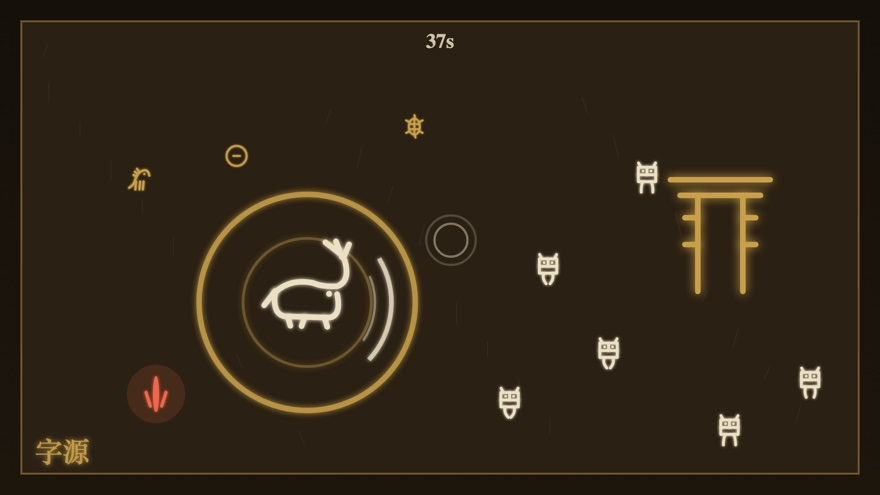
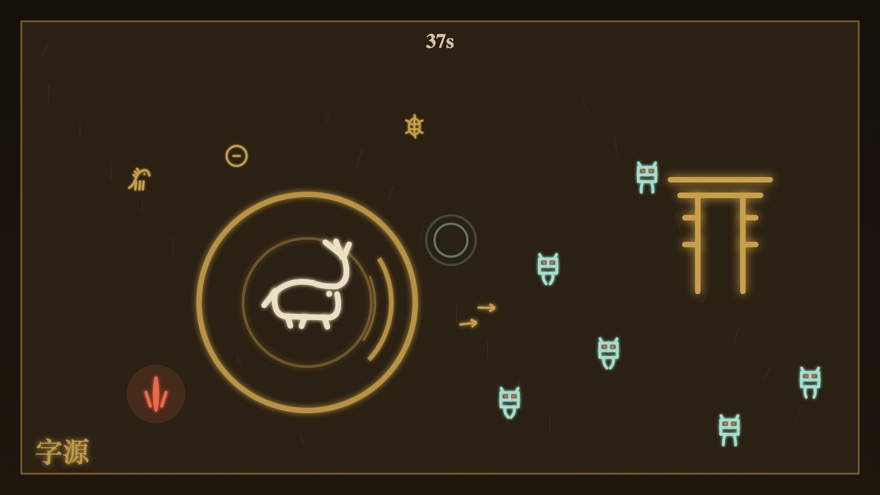
Glyph Run b4: readable combat colors, starter bow, script-era weapon tiers
- Visual language: spirits now spectral teal with red eyes; every attack
  of yours (slashes, quakes, arrows) renders in era gold; damage = red
  flash. Player and foes no longer share the same ink.
- Everyone starts with a modern 楷書 弓 that auto-fires arrows from
  second one — attacking is visible immediately
- Weapons upgrade through script eras (楷書 → 金文 → 甲骨), each tier
  faster/wider: bow gains twin then triple arrows and becomes oracle 射;
  戈 sweeps wider; 網 roots longer. Pedestals show the form you'd get,
  HUD icons age with tier + level pips. Two pedestals per wave.
- Thumb regenerated with the new colors

diff --git a/game/glyphrun.html b/game/glyphrun.html
@@ -100,7 +100,7 @@
   <div>
     <div class="title"><span class="cn">字源</span>GLYPH RUN</div>
     <div class="sub" data-en="Survive the night and you'll travel back in time. You ARE a character — spirits swarm from the dark and your ink strikes back on its own. Fallen glyphs are experience: level up to EVOLVE into related characters, all the way to your oracle-bone form. Every survived wave opens a gate deeper into the past — 楷書 to 甲骨文 — and the night gets harder." data-zh="撑过长夜，就是逆流时光。你就是一个「字」——群鬼自暗处涌来，笔墨自会出手。掉落的古字就是经验：升级即进化成同族新字，直到甲骨文本形。每撑过一波便开一道门，通往更深的古代——从楷书到甲骨文——夜也越难熬。">Survive the night and you'll travel back in time. You ARE a character — spirits swarm from the dark and your ink strikes back on its own. Fallen glyphs are experience: level up to EVOLVE into related characters, all the way to your oracle-bone form. Every survived wave opens a gate deeper into the past — 楷書 to 甲骨文 — and the night gets harder.</div>
-    <a class="back" href="/wip.html" data-en="← back to the wip lab" data-zh="← 返回实验室">← back to the wip lab</a> <span style="color:#3a3a3a;font-size:0.62rem">b3</span>
+    <a class="back" href="/wip.html" data-en="← back to the wip lab" data-zh="← 返回实验室">← back to the wip lab</a> <span style="color:#3a3a3a;font-size:0.62rem">b4</span>
   </div>
   <button class="lang-btn" id="langBtn" onclick="toggleLang()">中文</button>
 </div>
@@ -121,7 +121,7 @@
     <!-- START -->
     <div class="overlay show" id="ovStart">
       <h2 data-en="字源 · GLYPH RUN" data-zh="字源 · 汉字奔跑">字源 · GLYPH RUN</h2>
-      <div class="big" data-en="Pick a glyph — you play as the character itself. 鬼 spirits swarm from every side; your ink auto-slashes the nearest while you steer. Fallen spirits drop glyphs — that's your experience: fill the bar to LEVEL UP and evolve into a related character with a stronger skill. Every 12 glyphs also mends a heart. Survive each wave and pass the gate — the script rewinds an era: 楷書 → 篆書 → 金文 → 甲骨文. Ancient weapons surface from the dust: walk over 弓 the bow, 戈 the dagger-axe, 網 the net — a second 弓 becomes 射." data-zh="选一个字——你扮演的就是字形本身。「鬼」自四面八方涌来，笔墨会自动斩向最近之敌，你只管走位。倒下的鬼掉落古字——那就是经验：攒满经验条即升级，进化成同族新字、技能更强。每集 12 字还能补一颗心。撑过每一波、穿过门——字体倒退一个时代：楷书 → 篆书 → 金文 → 甲骨文。尘土之下还会浮出古兵：走上前拾取「弓」「戈」「网」——再得一弓，便成「射」。">Pick a glyph — you play as the character itself. 鬼 spirits swarm from every side; your ink auto-slashes the nearest while you steer. Fallen spirits drop glyphs — that's your experience: fill the bar to LEVEL UP and evolve into a related character with a stronger skill. Every 12 glyphs also mends a heart. Survive each wave and pass the gate — the script rewinds an era: 楷書 → 篆書 → 金文 → 甲骨文. Ancient weapons surface from the dust: walk over 弓 the bow, 戈 the dagger-axe, 網 the net — a second 弓 becomes 射.</div>
+      <div class="big" data-en="Pick a glyph — you play as the character itself. 鬼 spirits swarm from every side; your ink auto-slashes the nearest while you steer. Fallen spirits drop glyphs — that's your experience: fill the bar to LEVEL UP and evolve into a related character with a stronger skill. Every 12 glyphs also mends a heart. Survive each wave and pass the gate — the script rewinds an era: 楷書 → 篆書 → 金文 → 甲骨文. You carry a modern 弓 from the start — its arrows fire on their own. Weapon drops recast your arsenal in ever-older script — bronze, then bone — until the bow becomes 射 itself; 戈 guards your back, 網 holds the pack." data-zh="选一个字——你扮演的就是字形本身。「鬼」自四面八方涌来，笔墨会自动斩向最近之敌，你只管走位。倒下的鬼掉落古字——那就是经验：攒满经验条即升级，进化成同族新字、技能更强。每集 12 字还能补一颗心。撑过每一波、穿过门——字体倒退一个时代：楷书 → 篆书 → 金文 → 甲骨文。你开局自带一张现代的「弓」——箭矢自动离弦。拾取兵器会以更古的字体重铸——金文、再到甲骨——弓最终化为「射」；「戈」护你身后，「网」缚住群鬼。">Pick a glyph — you play as the character itself. 鬼 spirits swarm from every side; your ink auto-slashes the nearest while you steer. Fallen spirits drop glyphs — that's your experience: fill the bar to LEVEL UP and evolve into a related character with a stronger skill. Every 12 glyphs also mends a heart. Survive each wave and pass the gate — the script rewinds an era: 楷書 → 篆書 → 金文 → 甲骨文. You carry a modern 弓 from the start — its arrows fire on their own. Weapon drops recast your arsenal in ever-older script — bronze, then bone — until the bow becomes 射 itself; 戈 guards your back, 網 holds the pack.</div>
       <div class="char-row" id="charRow"></div>
       <div class="keys" id="skillLine"></div>
       <div class="keys">
@@ -559,6 +559,49 @@ function drawPicto(ctx, ch, cx, cy, s, color){
   ctx.restore();
 }
 
+/* weapon glyphs age with their tier: modern 楷 strokes, then the pictographs */
+function drawWeaponIcon(ctx, key, lv, cx, cy, s, color){
+  if(key==='gong'){
+    if(lv>=3){ drawPicto(ctx, '射', cx, cy, s, color); return; }
+    if(lv===2){ drawPicto(ctx, '弓', cx, cy, s, color); return; }
+    ctx.save(); ctx.translate(cx, cy);                    // 楷 弓: three-bar zigzag, final hook
+    ctx.strokeStyle = color; ctx.shadowColor = color; ctx.shadowBlur = s*0.14;
+    stroke(ctx, Math.max(2, s*0.09));
+    const r = s*0.42;
+    ctx.beginPath();
+    ctx.moveTo(-r*0.55,-r); ctx.lineTo(r*0.5,-r); ctx.lineTo(r*0.5,-r*0.35); ctx.lineTo(-r*0.55,-r*0.35);
+    ctx.lineTo(-r*0.55,r*0.2); ctx.lineTo(r*0.5,r*0.2); ctx.lineTo(r*0.5,r*0.8);
+    ctx.quadraticCurveTo(r*0.5,r*1.05,r*0.1,r*0.95);
+    ctx.stroke();
+    ctx.restore(); return;
+  }
+  if(key==='ge'){
+    if(lv>=2){ drawPicto(ctx, '戈', cx, cy, s, color); return; }
+    ctx.save(); ctx.translate(cx, cy);                    // 楷 戈: 横 斜钩 撇 点
+    ctx.strokeStyle = color; ctx.fillStyle = color; ctx.shadowColor = color; ctx.shadowBlur = s*0.14;
+    stroke(ctx, Math.max(2, s*0.09));
+    const r = s*0.42;
+    ctx.beginPath(); ctx.moveTo(-r*0.7,-r*0.4); ctx.lineTo(r*0.35,-r*0.55); ctx.stroke();
+    ctx.beginPath(); ctx.moveTo(-r*0.05,-r); ctx.quadraticCurveTo(r*0.15,r*0.3,r*0.6,r*0.85); ctx.stroke();
+    ctx.beginPath(); ctx.moveTo(r*0.6,r*0.85); ctx.lineTo(r*0.7,r*0.55); ctx.stroke();
+    ctx.beginPath(); ctx.moveTo(0,-r*0.1); ctx.lineTo(-r*0.55,r*0.75); ctx.stroke();
+    ctx.beginPath(); ctx.arc(r*0.5,-r*0.9,r*0.09,0,Math.PI*2); ctx.fill();
+    ctx.restore(); return;
+  }
+  if(lv>=2){ drawPicto(ctx, '網', cx, cy, s, color); return; }
+  ctx.save(); ctx.translate(cx, cy);                      // 楷 网: 冂 with crossed lattice
+  ctx.strokeStyle = color; ctx.shadowColor = color; ctx.shadowBlur = s*0.14;
+  stroke(ctx, Math.max(2, s*0.09));
+  const r = s*0.42;
+  ctx.beginPath(); ctx.moveTo(-r*0.6,-r*0.85); ctx.lineTo(-r*0.6,r*0.9); ctx.stroke();
+  ctx.beginPath(); ctx.moveTo(-r*0.6,-r*0.85); ctx.lineTo(r*0.6,-r*0.85); ctx.lineTo(r*0.6,r*0.9); ctx.stroke();
+  for(const ox of [-0.28, 0.3]){
+    ctx.beginPath(); ctx.moveTo((ox-0.18)*r,-r*0.5); ctx.lineTo((ox+0.18)*r,r*0.1); ctx.stroke();
+    ctx.beginPath(); ctx.moveTo((ox+0.18)*r,-r*0.5); ctx.lineTo((ox-0.18)*r,r*0.1); ctx.stroke();
+  }
+  ctx.restore();
+}
+
 /* --- 鬼 spirit enemy --- */
 function drawSpirit(ctx, cx, cy, s, phase, color){
   ctx.save();
@@ -574,9 +617,11 @@ function drawSpirit(ctx, cx, cy, s, phase, color){
   // little horns
   ctx.beginPath(); ctx.moveTo(-r*0.5,-r); ctx.lineTo(-r*0.68,-r*1.35); ctx.stroke();
   ctx.beginPath(); ctx.moveTo(r*0.5,-r); ctx.lineTo(r*0.68,-r*1.35); ctx.stroke();
-  // eyes
+  // eyes — hostile red, so friend and foe never read the same
+  ctx.save(); ctx.fillStyle = '#f0674a'; ctx.shadowColor = '#f0674a';
   ctx.beginPath(); ctx.arc(-r*0.32,-r*0.7,r*0.11,0,Math.PI*2); ctx.fill();
   ctx.beginPath(); ctx.arc(r*0.32,-r*0.7,r*0.11,0,Math.PI*2); ctx.fill();
+  ctx.restore();
   // wispy legs, shuffling
   const w = Math.sin(phase)*r*0.2;
   ctx.beginPath(); ctx.moveTo(-r*0.35,r*0.15); ctx.quadraticCurveTo(-r*0.5, r*0.6, -r*0.3+w, r); ctx.stroke();
@@ -711,17 +756,23 @@ const CHARS = {
 const ATK_INT = [1, 0.88, 0.76, 0.62];   // auto-attack quickens per tier
 const ATK_RNG = [1, 1.08, 1.18, 1.30];   // and reaches further
 
-/* pickup weapons — real war pictographs that surface mid-wave; walking a
-   duplicate upgrades it, and a second 弓 becomes 射 — the oracle form of
+/* pickup weapons — real war pictographs. You carry a modern 楷書 bow from
+   the start; duplicates recast a weapon in ever-older script (bronze, then
+   bone), faster and fiercer each time. The oracle tier of the bow IS 射 —
    “to shoot” really is the arrow set on the bowstring.                  */
 const WEAPONS = {
-  gong: {ch:'弓', py:'gōng', mean_en:'a bow — arrows seek the pack', mean_zh:'「弓」——放矢逐鬼',
-         ch2:'射', py2:'shè', mean2_en:'“to shoot” — the arrow on the bow: twin arrows, faster', mean2_zh:'「射」——弓上之矢：双箭齐发，更快',
-         int:[1.6, 1.0]},
-  ge:   {ch:'戈', py:'gē', mean_en:'dagger-axe — it guards your back', mean_zh:'「戈」——护住身后',
-         int:[1.3, 0.85]},
-  wang: {ch:'網', py:'wǎng', mean_en:'a net — holds the pack fast', mean_zh:'「网」——缚住群鬼',
-         int:[3.2, 2.2]}
+  gong: {chs:['弓','弓','射'], pys:['gōng','gōng','shè'], eras:['楷書','金文','甲骨'],
+         tier_en:['a bow — arrows seek the pack', 'recast in bronze — twin arrows, quicker', '“to shoot” — the arrow on the string: three arrows, oracle-swift'],
+         tier_zh:['「弓」——放矢逐鬼', '金文重铸——双箭更疾', '「射」——弦上之矢，三箭齐发'],
+         int:[1.5, 1.05, 0.7]},
+  ge:   {chs:['戈','戈','戈'], pys:['gē','gē','gē'], eras:['楷書','金文','甲骨'],
+         tier_en:['dagger-axe — it guards your back', 'bronze edge — wider, quicker', 'oracle blade — a full reaping sweep'],
+         tier_zh:['「戈」——护住身后', '青铜之刃——更阔更快', '甲骨之锋——横扫如割'],
+         int:[1.3, 0.95, 0.62], hits:[3,4,5], reach:[96,110,124]},
+  wang: {chs:['網','網','網'], pys:['wǎng','wǎng','wǎng'], eras:['楷書','金文','甲骨'],
+         tier_en:['a net — holds the pack fast', 'bronze-weighted — wider, longer', 'the oracle net — the whole hunt stands still'],
+         tier_zh:['「网」——缚住群鬼', '坠以青铜——更广更久', '甲骨之网——群鬼皆缚'],
+         int:[3.2, 2.5, 1.9], reach:[60,74,88], root:[1.6, 2.0, 2.6]}
 };
 
 /* ============================== eras / waves ============================== */
@@ -736,6 +787,8 @@ const ERAS = {
            sky:['#15100a','#1d160d'], hill:'#2a2013'}
 };
 const ERA_ORDER = ['kai','seal','bronze','oracle'];
+/* spirits get their own spectral tint — foes must never share your ink */
+const GHOST = '#9fe0cf';
 
 /* per-era wave tuning: survive the timer and the gate opens */
 const WAVES = [
@@ -772,7 +825,7 @@ const Game = (function(){
     era = ERAS[ERA_ORDER[i]];
     wave = WAVES[i];
     spirits = []; pickups = []; fires = []; clouds = []; fx = []; pedestals = []; projectiles = [];
-    wTimes = stageIdx >= 2 ? [wave.len*0.55, wave.len*0.22] : [wave.len*0.55];
+    wTimes = [wave.len*0.6, wave.len*0.28];
     waveT = wave.len; spawnT = 1.2; fireT = 3.5; gate = null; slowAllT = 0;
     const c = C();
     player = { x:CW/2, y:CH*0.62, face:1, runPhase:0, sq:0, inv:1.0,
@@ -795,7 +848,8 @@ const Game = (function(){
 
   /* ---------- lifecycle ---------- */
   function start(){
-    stageIdx = 0; lives = MAXHP; coins = 0; nextHeart = 12; level = 0; weapons = [];
+    stageIdx = 0; lives = MAXHP; coins = 0; nextHeart = 12; level = 0;
+    weapons = [{key:'gong', lv:1, t:0.8}];   // everyone starts with the modern bow
     hideAll();
     loadStage(0);
     running = true; lastTs = performance.now();
@@ -1068,8 +1122,10 @@ const Game = (function(){
         const tgt = nearestSpirit(9999);
         if(!tgt){ w.t = 0.1; continue; }
         const ang = Math.atan2(tgt.y-player.y, tgt.x-player.x);
-        const shots = w.lv > 1 ? [ang-0.09, ang+0.09] : [ang];
-        for(const a of shots) projectiles.push({x:player.x, y:player.y, ux:Math.cos(a), uy:Math.sin(a), t:1.1, pierce:2});
+        const spread = [[0], [-0.09, 0.09], [-0.16, 0, 0.16]][lv];
+        for(const da of spread) projectiles.push({x:player.x, y:player.y, ux:Math.cos(ang+da), uy:Math.sin(ang+da),
+                                                  t:1.2, pierce:2+lv, spd:430+lv*60, lv});
+        addFx({kind:'ringatk', x:player.x, y:player.y, r:12+lv*5, t:0.14});
         w.t = W.int[lv];
       } else if(w.key === 'ge'){
         const back = Math.atan2(-player.lastDir.y, -player.lastDir.x);
@@ -1077,22 +1133,22 @@ const Game = (function(){
         for(const s of spirits){
           if(s.dead) continue;
           const d = Math.hypot(s.x-player.x, s.y-player.y);
-          if(d > 96) continue;
+          if(d > W.reach[lv]) continue;
           let da = Math.atan2(s.y-player.y, s.x-player.x) - back;
           da = Math.atan2(Math.sin(da), Math.cos(da));
-          if(Math.abs(da) < 1.15) cand.push([d, s]);
+          if(Math.abs(da) < 1.15 + lv*0.2) cand.push([d, s]);
         }
         if(!cand.length){ w.t = 0.12; continue; }
         cand.sort((a,b)=>a[0]-b[0]);
-        for(const [,s] of cand.slice(0, 3)) killSpirit(s);
-        addFx({kind:'slash', x:player.x, y:player.y, ang:back, r:88, t:0.18});
+        for(const [,s] of cand.slice(0, W.hits[lv])) killSpirit(s);
+        addFx({kind:'slash', x:player.x, y:player.y, ang:back, r:W.reach[lv]-8, t:0.18});
         w.t = W.int[lv];
       } else { // 網: cast at the nearest knot of spirits
         const tgt = nearestSpirit(320);
         if(!tgt){ w.t = 0.15; continue; }
-        const nr = w.lv > 1 ? 78 : 60;
+        const nr = W.reach[lv];
         for(const s of spirits){
-          if(!s.dead && Math.hypot(s.x-tgt.x, s.y-tgt.y) <= nr) s.rootT = 1.6;
+          if(!s.dead && Math.hypot(s.x-tgt.x, s.y-tgt.y) <= nr) s.rootT = W.root[lv];
         }
         addFx({kind:'net', x:tgt.x, y:tgt.y, r:nr, t:1.4});
         w.t = W.int[lv];
@@ -1101,7 +1157,7 @@ const Game = (function(){
     // arrows in flight
     for(const p of projectiles){
       p.t -= dt;
-      p.x += p.ux*430*dt; p.y += p.uy*430*dt;
+      p.x += p.ux*p.spd*dt; p.y += p.uy*p.spd*dt;
       if(p.x < WALL || p.x > CW-WALL || p.y < WALL || p.y > CH-WALL) p.t = 0;
       for(const s of spirits){
         if(s.dead || p.pierce <= 0) continue;
@@ -1150,7 +1206,7 @@ const Game = (function(){
         // a weapon surfaces from the dust
         if(wTimes.length && waveT <= wTimes[0]){
           wTimes.shift();
-          const pool = Object.keys(WEAPONS).filter(k=>!weapons.some(w=>w.key===k && w.lv>1));
+          const pool = Object.keys(WEAPONS).filter(k=>!weapons.some(w=>w.key===k && w.lv>2));
           const key = pool.length ? pool[(Math.random()*pool.length)|0] : 'gong';
           for(let tries=0; tries<8; tries++){
             const wx = WALL+70+Math.random()*(CW-WALL*2-140), wy = WALL+70+Math.random()*(CH-WALL*2-140);
@@ -1230,16 +1286,16 @@ const Game = (function(){
       if(Math.hypot(pd.x-player.x, pd.y-player.y) < 32){
         pd.done = true;
         const W = WEAPONS[pd.key], owned = weapons.find(w=>w.key===pd.key);
-        if(owned && owned.lv === 1){
-          owned.lv = 2;
-          if(pd.key==='gong') popToastEx(W.ch2, W.py2, t(W.mean2_en, W.mean2_zh));
-          else popToastEx(W.ch, W.py+' Ⅱ', t(W.mean_en, W.mean_zh));
+        if(owned && owned.lv < 3){
+          owned.lv++;
+          const l = owned.lv-1;
+          popToastEx(W.chs[l], `${W.pys[l]} · ${W.eras[l]}`, t(W.tier_en[l], W.tier_zh[l]));
         } else if(!owned){
           if(weapons.length >= 2) weapons.shift();          // the oldest is set down
           weapons.push({key:pd.key, lv:1, t:0.4});
-          popToastEx(W.ch, W.py, t(W.mean_en, W.mean_zh));
+          popToastEx(W.chs[0], `${W.pys[0]} · ${W.eras[0]}`, t(W.tier_en[0], W.tier_zh[0]));
         } else {
-          popToastEx(W.ch, W.py, t('already mastered','已然精通'));
+          popToastEx(W.chs[2], W.pys[2], t('already mastered','已然精通'));
         }
         addFx({kind:'levelup', x:pd.x, y:pd.y, t:0.6, r:50, ch:''});
       }
@@ -1302,11 +1358,13 @@ const Game = (function(){
       ctx.restore();
     }
 
-    // weapon pedestals
+    // weapon pedestals — each shows the form you'd walk away with
     for(const pd of pedestals){
+      const owned = weapons.find(w=>w.key===pd.key);
+      const nlv = owned ? Math.min(3, owned.lv+1) : 1;
       ctx.save(); ctx.globalAlpha = 0.35; ctx.strokeStyle = era.accent; ctx.lineWidth = 2;
       ctx.beginPath(); ctx.ellipse(pd.x, pd.y+16, 22, 8, 0, 0, Math.PI*2); ctx.stroke(); ctx.restore();
-      drawPicto(ctx, WEAPONS[pd.key].ch, pd.x, pd.y + Math.sin(pd.bob)*3 - 2, 34, era.ink);
+      drawWeaponIcon(ctx, pd.key, nlv, pd.x, pd.y + Math.sin(pd.bob)*3 - 2, 34, era.ink);
     }
 
     // fallen glyphs
@@ -1326,8 +1384,8 @@ const Game = (function(){
       ctx.restore();
     }
 
-    // spirits
-    for(const s of spirits){ if(!s.dead) drawSpirit(ctx, s.x, s.y, 34, s.phase, era.ink); }
+    // spirits — spectral, red-eyed
+    for(const s of spirits){ if(!s.dead) drawSpirit(ctx, s.x, s.y, 34, s.phase, GHOST); }
 
     // the flock orbiters 羴
     if(selChar==='yang' && level >= CHARS.yang.orbTier){
@@ -1340,11 +1398,20 @@ const Game = (function(){
       }
     }
 
-    // arrows in flight
+    // arrows in flight — gold like every strike of yours
     for(const p of projectiles){
-      ctx.save(); ctx.strokeStyle = era.ink; ctx.shadowColor = era.ink; ctx.shadowBlur = 6;
+      ctx.save();
+      ctx.strokeStyle = era.accent; ctx.shadowColor = era.accent; ctx.shadowBlur = 6 + p.lv*4;
       ctx.lineWidth = 2.5;
-      ctx.beginPath(); ctx.moveTo(p.x-p.ux*12, p.y-p.uy*12); ctx.lineTo(p.x, p.y); ctx.stroke();
+      const L = 15 + p.lv*4;
+      ctx.beginPath(); ctx.moveTo(p.x-p.ux*L, p.y-p.uy*L); ctx.lineTo(p.x, p.y); ctx.stroke();
+      ctx.beginPath(); ctx.moveTo(p.x, p.y); ctx.lineTo(p.x-p.ux*6-p.uy*4, p.y-p.uy*6+p.ux*4);
+      ctx.moveTo(p.x, p.y); ctx.lineTo(p.x-p.ux*6+p.uy*4, p.y-p.uy*6-p.ux*4); ctx.stroke();
+      if(p.lv >= 1){
+        const bx = p.x-p.ux*L, by = p.y-p.uy*L;
+        ctx.beginPath(); ctx.moveTo(bx, by); ctx.lineTo(bx-p.ux*5-p.uy*4, by-p.uy*5+p.ux*4);
+        ctx.moveTo(bx, by); ctx.lineTo(bx-p.ux*5+p.uy*4, by-p.uy*5-p.ux*4); ctx.stroke();
+      }
       ctx.restore();
     }
 
@@ -1376,7 +1443,7 @@ const Game = (function(){
     // strike & event fx
     for(const e of fx){
       const k = e.t/e.max;
-      ctx.save(); ctx.strokeStyle = era.ink; ctx.globalAlpha = 0.75*k;
+      ctx.save(); ctx.strokeStyle = era.accent; ctx.globalAlpha = 0.75*k;   // attacks read gold
       if(e.kind==='slash'){
         ctx.lineWidth = 5;
         ctx.beginPath(); ctx.arc(e.x, e.y, e.r*0.8, e.ang-0.8, e.ang+0.8); ctx.stroke();
@@ -1395,7 +1462,7 @@ const Game = (function(){
         ctx.lineWidth = 3; ctx.globalAlpha = 0.4*k;
         ctx.beginPath(); ctx.arc(e.x, e.y, e.r*(1-k)*0.6, 0, Math.PI*2); ctx.stroke();
       } else if(e.kind==='poof'){
-        ctx.lineWidth = 2.5;
+        ctx.strokeStyle = GHOST; ctx.lineWidth = 2.5;
         ctx.beginPath(); ctx.arc(e.x, e.y, e.r*(1.3-k), 0, Math.PI*2); ctx.stroke();
       } else if(e.kind==='hurt'){
         ctx.strokeStyle = '#f0674a'; ctx.lineWidth = 4;
@@ -1454,13 +1521,11 @@ const Game = (function(){
     ctx.fillText('♥', WALL+6, WALL+23);
     ctx.restore();
     for(let i=0; i<weapons.length; i++){
-      const W = WEAPONS[weapons[i].key];
-      const wch = (weapons[i].key==='gong' && weapons[i].lv>1) ? W.ch2 : W.ch;
-      drawPicto(ctx, wch, WALL+20+i*32, WALL+44, 20, era.accent);
-      if(weapons[i].lv>1 && weapons[i].key!=='gong'){
-        ctx.save(); ctx.fillStyle = era.accent; ctx.font = 'bold 9px Consolas'; ctx.textAlign = 'left';
-        ctx.fillText('Ⅱ', WALL+30+i*32, WALL+54); ctx.restore();
-      }
+      const w = weapons[i];
+      drawWeaponIcon(ctx, w.key, w.lv, WALL+20+i*34, WALL+46, 20, era.accent);
+      ctx.save(); ctx.fillStyle = era.accent; ctx.globalAlpha = 0.9;
+      for(let pip=0; pip<w.lv; pip++) ctx.fillRect(WALL+13+i*34+pip*7, WALL+58, 4, 3);
+      ctx.restore();
     }
 
     // wave clock

diff --git a/wip.html b/wip.html
@@ -74,10 +74,10 @@
 
   <div class="card">
     <div class="ribbon " data-en="1UP · NEW" data-zh="1UP · 新">1UP · NEW</div>
-    <img class="card-thumb" src="/game/thumbs/glyphrun.jpg?v=1" alt="Glyph Run arena: the oracle-bone 為 elephant mid-quake as 鬼 spirits swarm toward the gate" loading="lazy" width="440" height="240">
+    <img class="card-thumb" src="/game/thumbs/glyphrun.jpg?v=2" alt="Glyph Run arena: the oracle-bone 為 elephant mid-quake as 鬼 spirits swarm toward the gate" loading="lazy" width="440" height="240">
     <div class="card-icon" style="color:#e8b04a">[字]</div>
     <div class="card-title" data-en="glyph_run.exe" data-zh="字源.exe">glyph_run.exe</div>
-    <div class="card-desc" data-en="A top-down arena survivor (think Brotato) where you ARE a Chinese character. 鬼 spirits swarm, your ink auto-slashes, and glyph drops are XP — level up to EVOLVE into related characters with stronger skills: 人→大→夫→舞 (dash), 牛→牢→牧→犇 (ram), 羊→羔→美→羴 (wool clouds), 象→像→豫→為 (earthshaker stomp). Grab weapon drops along the way — 弓 the bow (a second one makes it 射), 戈, 網. The script rewinds an era each wave — 楷書 → 篆書 → 金文 → 甲骨文." data-zh="俯视角乱斗生存（类 Brotato），而你就是一个汉字。「鬼」四面涌来，笔墨自动出斩；掉落古字即经验——升级进化成同族新字，技能更强：人→大→夫→舞（疾步）、牛→牢→牧→犇（冲撞）、羊→羔→美→羴（云绒）、象→像→豫→為（撼地重踏）。沿途还能拾取兵器——「弓」（再得一弓成「射」）、「戈」、「网」。字体逐波倒退——楷书 → 篆书 → 金文 → 甲骨文。">A top-down arena survivor (think Brotato) where you ARE a Chinese character. 鬼 spirits swarm, your ink auto-slashes, and glyph drops are XP — level up to EVOLVE into related characters with stronger skills: 人→大→夫→舞 (dash), 牛→牢→牧→犇 (ram), 羊→羔→美→羴 (wool clouds), 象→像→豫→為 (earthshaker stomp). Grab weapon drops along the way — 弓 the bow (a second one makes it 射), 戈, 網. The script rewinds an era each wave — 楷書 → 篆書 → 金文 → 甲骨文.</div>
+    <div class="card-desc" data-en="A top-down arena survivor (think Brotato) where you ARE a Chinese character. 鬼 spirits swarm, your ink auto-slashes, and glyph drops are XP — level up to EVOLVE into related characters with stronger skills: 人→大→夫→舞 (dash), 牛→牢→牧→犇 (ram), 羊→羔→美→羴 (wool clouds), 象→像→豫→為 (earthshaker stomp). You start with a modern 弓 that fires on its own; weapon drops recast your arsenal in ever-older script — the bow becomes oracle 射 — plus 戈 and 網. The script rewinds an era each wave — 楷書 → 篆書 → 金文 → 甲骨文." data-zh="俯视角乱斗生存（类 Brotato），而你就是一个汉字。「鬼」四面涌来，笔墨自动出斩；掉落古字即经验——升级进化成同族新字，技能更强：人→大→夫→舞（疾步）、牛→牢→牧→犇（冲撞）、羊→羔→美→羴（云绒）、象→像→豫→為（撼地重踏）。开局自带现代「弓」，箭矢自动离弦；拾取兵器以更古字体重铸——弓终成甲骨「射」——还有「戈」与「网」。字体逐波倒退——楷书 → 篆书 → 金文 → 甲骨文。">A top-down arena survivor (think Brotato) where you ARE a Chinese character. 鬼 spirits swarm, your ink auto-slashes, and glyph drops are XP — level up to EVOLVE into related characters with stronger skills: 人→大→夫→舞 (dash), 牛→牢→牧→犇 (ram), 羊→羔→美→羴 (wool clouds), 象→像→豫→為 (earthshaker stomp). You start with a modern 弓 that fires on its own; weapon drops recast your arsenal in ever-older script — the bow becomes oracle 射 — plus 戈 and 網. The script rewinds an era each wave — 楷書 → 篆書 → 金文 → 甲骨文.</div>
     <div class="card-tags">
       <span class="tag wip" data-en="wip" data-zh="施工中">wip</span>
       <span class="tag green" data-en="arena survivor" data-zh="乱斗生存">arena survivor</span>
@@ -87,7 +87,7 @@
     </div>
     <div class="card-footer">
       <span class="card-meta" data-en="JS · canvas" data-zh="JS · canvas">JS · canvas</span>
-      <a class="play-btn" href="/game/glyphrun.html?v=b3" data-en="→ play" data-zh="→ 游玩">→ play</a>
+      <a class="play-btn" href="/game/glyphrun.html?v=b4" data-en="→ play" data-zh="→ 游玩">→ play</a>
     </div>
   </div>
 